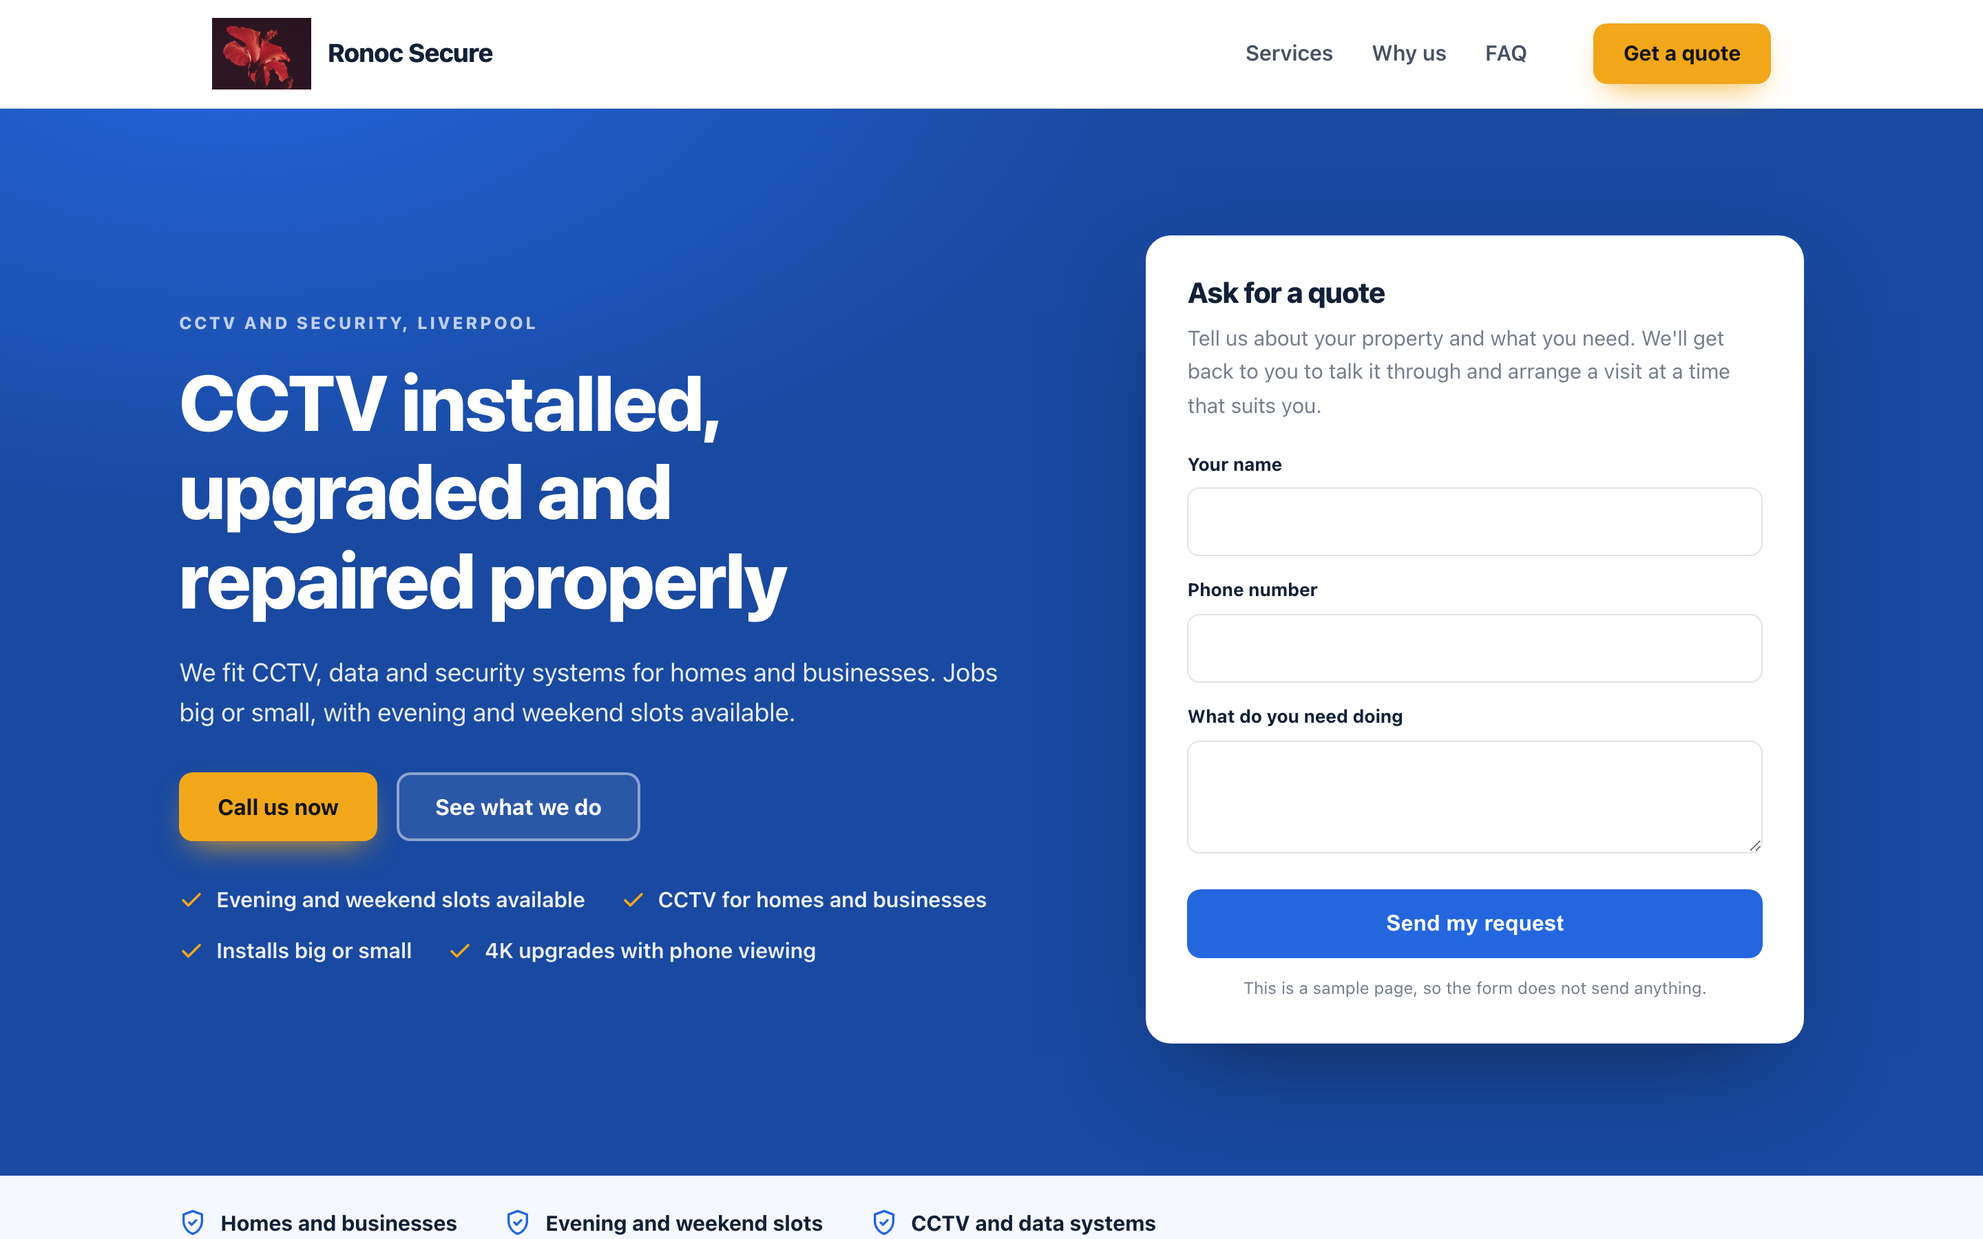
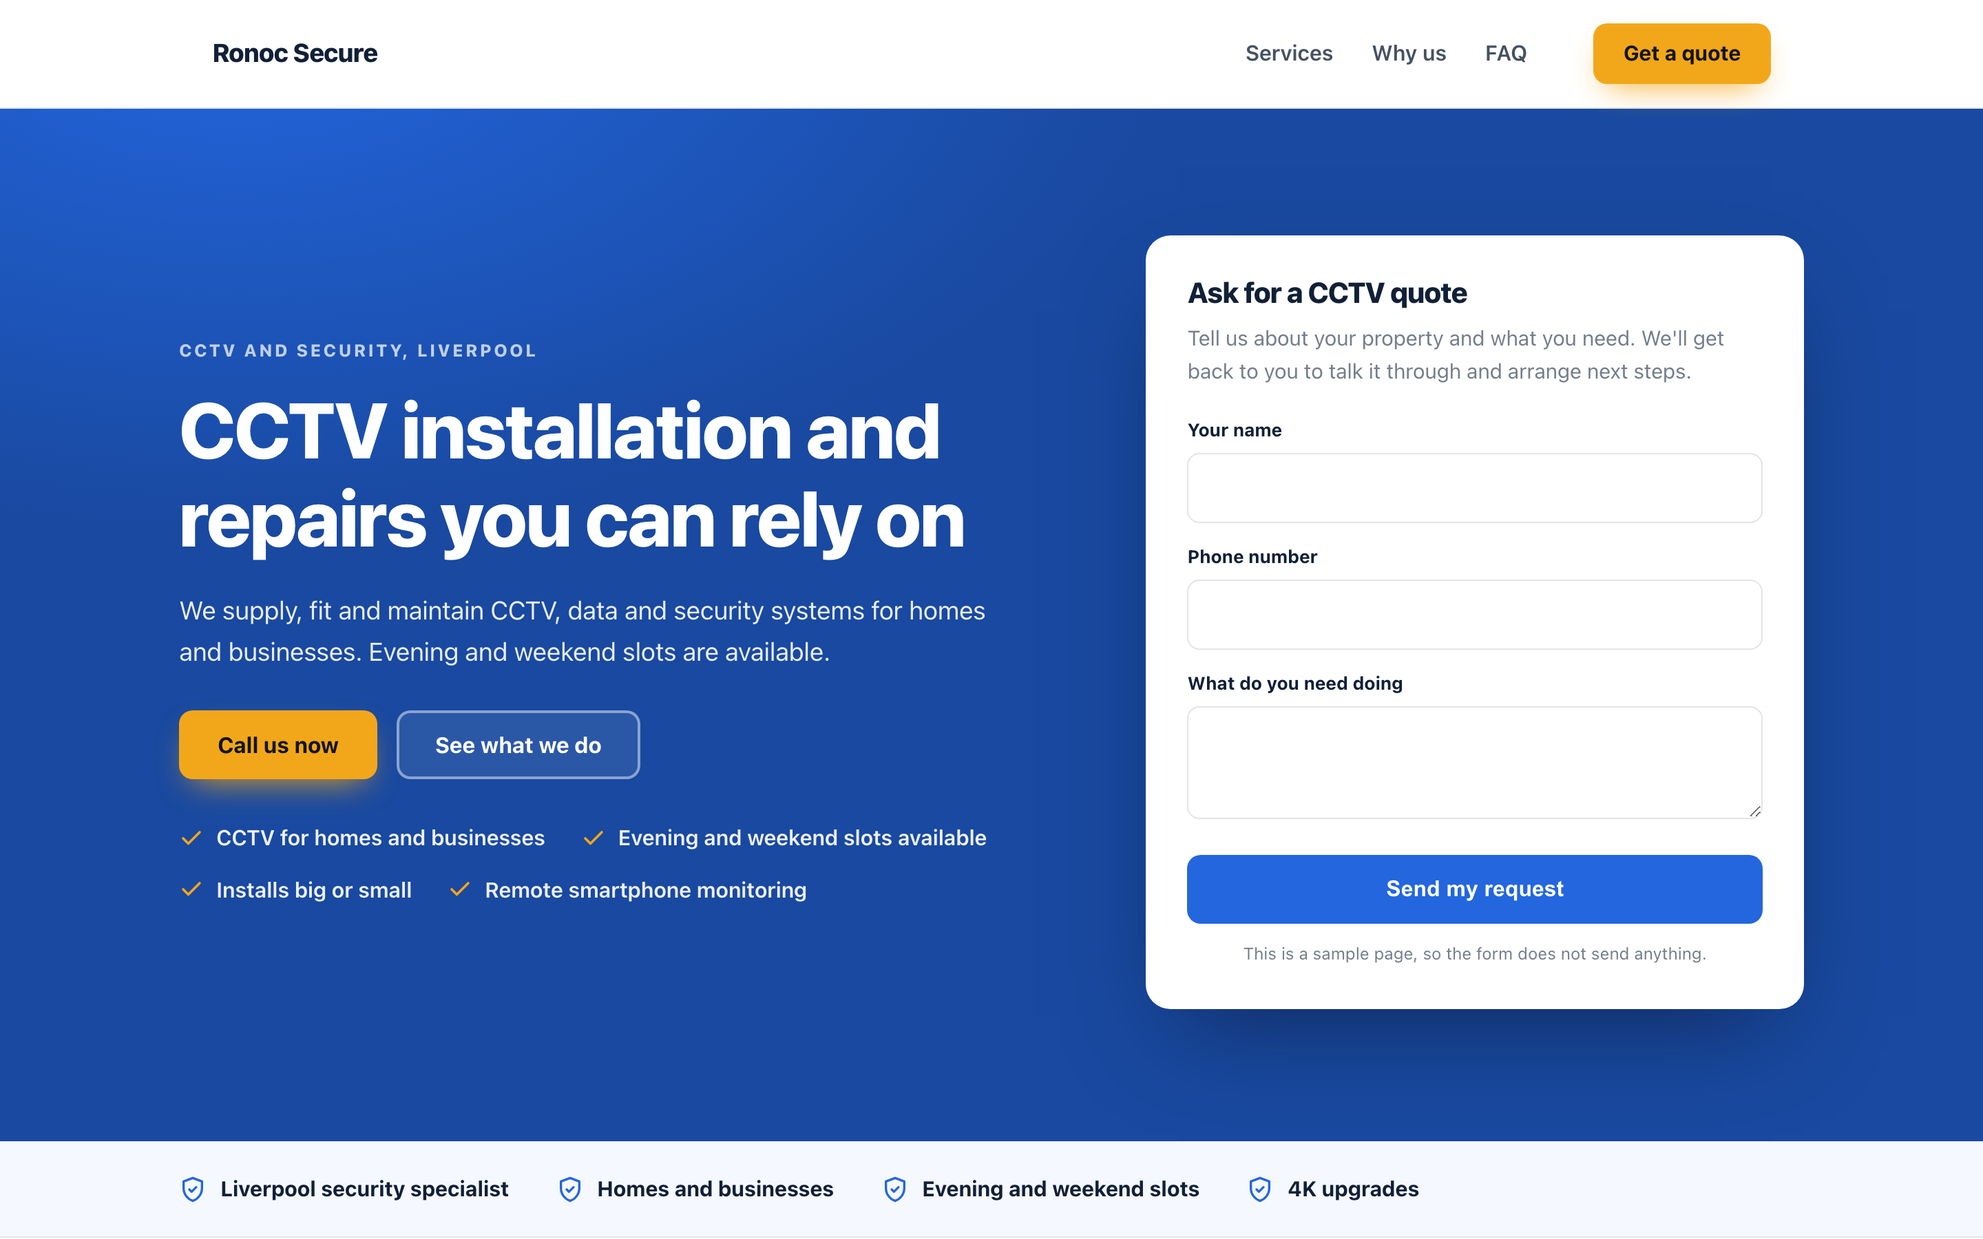
One page sample for Ronoc Secure

diff --git a/docs/7ee11d4cfe/index.html b/docs/7ee11d4cfe/index.html
@@ -4,14 +4,14 @@
 <meta charset="utf-8">
 <meta name="viewport" content="width=device-width, initial-scale=1">
 <meta name="robots" content="noindex,nofollow">
-<meta name="aso-build" content="30e84be34729">
-<title>CCTV Installation and Repairs Liverpool | Ronoc Secure</title>
-<meta name="description" content="Ronoc Secure supplies, installs, upgrades and repairs CCTV and data systems for Liverpool homes and businesses. Evening and weekend slots available.">
+<meta name="aso-build" content="61b5eebbc68b">
+<title>CCTV Installation &amp; Repairs Liverpool | Ronoc Secure</title>
+<meta name="description" content="CCTV supply, installation, upgrades and emergency repairs for homes and businesses in Liverpool. Evening and weekend slots available.">
 <link rel="canonical" href="https://markygff.github.io/aso-mockups/7ee11d4cfe/">
 <meta property="og:type" content="website">
 <meta property="og:site_name" content="Ronoc Secure">
-<meta property="og:title" content="CCTV Installation and Repairs Liverpool | Ronoc Secure">
-<meta property="og:description" content="Ronoc Secure supplies, installs, upgrades and repairs CCTV and data systems for Liverpool homes and businesses. Evening and weekend slots available.">
+<meta property="og:title" content="CCTV Installation &amp; Repairs Liverpool | Ronoc Secure">
+<meta property="og:description" content="CCTV supply, installation, upgrades and emergency repairs for homes and businesses in Liverpool. Evening and weekend slots available.">
 <meta property="og:url" content="https://markygff.github.io/aso-mockups/7ee11d4cfe/">
 <meta name="twitter:card" content="summary_large_image">
 <style>
@@ -268,7 +268,7 @@ p{margin:0}
 <header class="header">
   <div class="wrap header-in">
     <div class="brand">
-<img src="img/logo.jpg" alt="Ronoc Secure logo">      <div>
+      <div>
         <div class="brand-name">Ronoc Secure</div>
       </div>
     </div>
@@ -288,18 +288,18 @@ p{margin:0}
   <div class="wrap hero-in">
     <div>
       <p class="eyebrow">CCTV and security, Liverpool</p>
-      <h1>CCTV installed, upgraded and repaired properly</h1>
-      <p class="hero-sub">We fit CCTV, data and security systems for homes and businesses. Jobs big or small, with evening and weekend slots available.</p>
+      <h1>CCTV installation and repairs you can rely on</h1>
+      <p class="hero-sub">We supply, fit and maintain CCTV, data and security systems for homes and businesses. Evening and weekend slots are available.</p>
       <div class="hero-actions">
         <a class="btn btn-accent" href="#quote">Call us now</a>
         <a class="btn btn-ghost" href="#services">See what we do</a>
       </div>
       <ul class="hero-bullets">
-<li><svg viewBox="0 0 24 24" fill="none" stroke="currentColor" stroke-width="2.4" stroke-linecap="round" stroke-linejoin="round" aria-hidden="true"><path d="M20 6 9 17l-5-5"/></svg><span>Evening and weekend slots available</span></li><li><svg viewBox="0 0 24 24" fill="none" stroke="currentColor" stroke-width="2.4" stroke-linecap="round" stroke-linejoin="round" aria-hidden="true"><path d="M20 6 9 17l-5-5"/></svg><span>CCTV for homes and businesses</span></li><li><svg viewBox="0 0 24 24" fill="none" stroke="currentColor" stroke-width="2.4" stroke-linecap="round" stroke-linejoin="round" aria-hidden="true"><path d="M20 6 9 17l-5-5"/></svg><span>Installs big or small</span></li><li><svg viewBox="0 0 24 24" fill="none" stroke="currentColor" stroke-width="2.4" stroke-linecap="round" stroke-linejoin="round" aria-hidden="true"><path d="M20 6 9 17l-5-5"/></svg><span>4K upgrades with phone viewing</span></li>      </ul>
+<li><svg viewBox="0 0 24 24" fill="none" stroke="currentColor" stroke-width="2.4" stroke-linecap="round" stroke-linejoin="round" aria-hidden="true"><path d="M20 6 9 17l-5-5"/></svg><span>CCTV for homes and businesses</span></li><li><svg viewBox="0 0 24 24" fill="none" stroke="currentColor" stroke-width="2.4" stroke-linecap="round" stroke-linejoin="round" aria-hidden="true"><path d="M20 6 9 17l-5-5"/></svg><span>Evening and weekend slots available</span></li><li><svg viewBox="0 0 24 24" fill="none" stroke="currentColor" stroke-width="2.4" stroke-linecap="round" stroke-linejoin="round" aria-hidden="true"><path d="M20 6 9 17l-5-5"/></svg><span>Installs big or small</span></li><li><svg viewBox="0 0 24 24" fill="none" stroke="currentColor" stroke-width="2.4" stroke-linecap="round" stroke-linejoin="round" aria-hidden="true"><path d="M20 6 9 17l-5-5"/></svg><span>Remote smartphone monitoring</span></li>      </ul>
     </div>
     <div class="quote-card" id="quote">
-      <h3>Ask for a quote</h3>
-      <p class="lead">Tell us about your property and what you need. We&#39;ll get back to you to talk it through and arrange a visit at a time that suits you.</p>
+      <h3>Ask for a CCTV quote</h3>
+      <p class="lead">Tell us about your property and what you need. We&#39;ll get back to you to talk it through and arrange next steps.</p>
       <form action="#" onsubmit="return false" novalidate>
         <div class="field"><label for="h-name">Your name</label>
           <input id="h-name" name="name" type="text" autocomplete="name"></div>
@@ -316,9 +316,10 @@ p{margin:0}
 
 <div class="trust">
   <div class="wrap trust-in">
+    <div class="trust-item"><svg viewBox="0 0 24 24" fill="none" stroke="currentColor" stroke-width="2" stroke-linecap="round" stroke-linejoin="round" aria-hidden="true"><path d="M12 2 4 5v6c0 5 3.4 9.4 8 11 4.6-1.6 8-6 8-11V5z"/><path d="m9 12 2 2 4-4"/></svg><span>Liverpool security specialist</span></div>
     <div class="trust-item"><svg viewBox="0 0 24 24" fill="none" stroke="currentColor" stroke-width="2" stroke-linecap="round" stroke-linejoin="round" aria-hidden="true"><path d="M12 2 4 5v6c0 5 3.4 9.4 8 11 4.6-1.6 8-6 8-11V5z"/><path d="m9 12 2 2 4-4"/></svg><span>Homes and businesses</span></div>
     <div class="trust-item"><svg viewBox="0 0 24 24" fill="none" stroke="currentColor" stroke-width="2" stroke-linecap="round" stroke-linejoin="round" aria-hidden="true"><path d="M12 2 4 5v6c0 5 3.4 9.4 8 11 4.6-1.6 8-6 8-11V5z"/><path d="m9 12 2 2 4-4"/></svg><span>Evening and weekend slots</span></div>
-    <div class="trust-item"><svg viewBox="0 0 24 24" fill="none" stroke="currentColor" stroke-width="2" stroke-linecap="round" stroke-linejoin="round" aria-hidden="true"><path d="M12 2 4 5v6c0 5 3.4 9.4 8 11 4.6-1.6 8-6 8-11V5z"/><path d="m9 12 2 2 4-4"/></svg><span>CCTV and data systems</span></div>
+    <div class="trust-item"><svg viewBox="0 0 24 24" fill="none" stroke="currentColor" stroke-width="2" stroke-linecap="round" stroke-linejoin="round" aria-hidden="true"><path d="M12 2 4 5v6c0 5 3.4 9.4 8 11 4.6-1.6 8-6 8-11V5z"/><path d="m9 12 2 2 4-4"/></svg><span>4K upgrades</span></div>
   </div>
 </div>
 
@@ -327,28 +328,28 @@ p{margin:0}
     <div class="section-head">
       <p class="eyebrow">What we do</p>
       <h2>Our CCTV services</h2>
-      <p>We supply, fit, upgrade and repair CCTV and data systems. Every system is set up to be easy to use day to day.</p>
+      <p>We look after CCTV, data and security systems from first install to repair. Jobs big or small are welcome.</p>
     </div>
     <div class="grid grid-3">
       <article class="card">
         <div class="icon"><svg viewBox="0 0 24 24" fill="none" stroke="currentColor" stroke-width="2" stroke-linecap="round" stroke-linejoin="round" aria-hidden="true"><path d="M14.7 6.3a4 4 0 0 0 5.3 5.3l-8 8a3 3 0 0 1-4.2-4.2z"/><path d="m14.7 6.3 3-3"/></svg></div>
         <h3>CCTV Supply &amp; Installation</h3>
-        <p>Complete high-definition camera systems, planned around your home or business and what you need to keep an eye on.</p>
+        <p>We supply and fit complete high-definition camera systems, planned around your home or business and what you need to watch.</p>
       </article>
       <article class="card">
         <div class="icon"><svg viewBox="0 0 24 24" fill="none" stroke="currentColor" stroke-width="2" stroke-linecap="round" stroke-linejoin="round" aria-hidden="true"><path d="M13 2 4 14h7l-1 8 9-12h-7z"/></svg></div>
         <h3>CCTV &amp; Network Maintenance Services</h3>
-        <p>We look after your cameras and the network behind them, so recordings keep working and you can rely on the system.</p>
+        <p>We keep your cameras, recorders and network in good order. Regular checks catch faults before they leave you without footage.</p>
       </article>
       <article class="card">
         <div class="icon"><svg viewBox="0 0 24 24" fill="none" stroke="currentColor" stroke-width="2" stroke-linecap="round" stroke-linejoin="round" aria-hidden="true"><path d="M3 10.5 12 3l9 7.5"/><path d="M5 9.5V21h14V9.5"/><path d="M10 21v-6h4v6"/></svg></div>
         <h3>CCTV Upgrades &amp; System Support</h3>
-        <p>Older equipment can be brought up to 4K picture quality, with remote viewing on your smartphone.</p>
+        <p>We modernise older systems with 4K cameras and set you up to watch your cameras from your smartphone.</p>
       </article>
       <article class="card">
         <div class="icon"><svg viewBox="0 0 24 24" fill="none" stroke="currentColor" stroke-width="2" stroke-linecap="round" stroke-linejoin="round" aria-hidden="true"><path d="M4 20 15 9"/><path d="m14 4 6 6-3 3-6-6z"/><path d="m3 15 6 6"/></svg></div>
         <h3>Emergency repairs and mainenance</h3>
-        <p>Rapid response when a camera stops working, the recorder has storage problems or the system loses its connection.</p>
+        <p>Rapid response when a camera stops working, the recorder has storage issues or the system loses its connection.</p>
       </article>
     </div>
   </div>
@@ -358,35 +359,35 @@ p{margin:0}
   <div class="wrap">
     <div class="section-head">
       <p class="eyebrow">Why us</p>
-      <h2>Why customers choose Ronoc Secure</h2>
+      <h2>Why people choose Ronoc Secure</h2>
     </div>
     <div class="grid grid-2">
       <div class="why-item">
         <div class="why-badge">1</div>
         <div>
           <h3>Evening and weekend slots</h3>
-          <p>We offer evening and weekend appointments, so you don&#39;t have to take time off work for an install or repair.</p>
+          <p>We offer evening and weekend appointments, so you don&#39;t have to take time off work to get your system fitted or fixed.</p>
         </div>
       </div>
       <div class="why-item">
         <div class="why-badge">2</div>
         <div>
-          <h3>Homes and businesses</h3>
-          <p>We fit and support CCTV and data systems for families at home and for businesses of all kinds.</p>
+          <h3>Easy to use</h3>
+          <p>We fit CCTV and data systems that are simple to run day to day, so you can check your cameras without a manual.</p>
         </div>
       </div>
       <div class="why-item">
         <div class="why-badge">3</div>
         <div>
-          <h3>Easy to use</h3>
-          <p>We set systems up so they&#39;re simple to live with. You&#39;ll know how to check your cameras and find your recordings.</p>
+          <h3>Big or small</h3>
+          <p>A single camera at home or a full system for a business. We take on installs of every size.</p>
         </div>
       </div>
       <div class="why-item">
         <div class="why-badge">4</div>
         <div>
-          <h3>Big or small jobs</h3>
-          <p>One camera on the drive or a full system across a site. We take on installs of any size.</p>
+          <h3>Homes and businesses</h3>
+          <p>We keep families and businesses safe with systems built around the property and what needs watching.</p>
         </div>
       </div>
     </div>
@@ -399,27 +400,27 @@ p{margin:0}
   <div class="wrap" style="max-width:840px">
     <div class="section-head">
       <p class="eyebrow">Questions</p>
-      <h2>CCTV questions answered</h2>
+      <h2>CCTV questions we get asked</h2>
     </div>
     <div class="faq-item">
-      <h3><span>Q.</span>How quickly can you come out to fix my CCTV?</h3>
-      <p>We offer a rapid response for faulty cameras, storage issues and connection problems. Evening and weekend slots are available too. Send us the details through the quote form and we&#39;ll come back to you with the first available slot.</p>
-    </div>
-    <div class="faq-item">
-      <h3><span>Q.</span>Can you upgrade my old CCTV system?</h3>
-      <p>Yes. We modernise existing equipment with 4K resolution and remote smartphone monitoring. Tell us what you&#39;ve got now in the quote form and we&#39;ll suggest what&#39;s worth keeping and what&#39;s worth replacing.</p>
+      <h3><span>Q.</span>Can you install CCTV in the evening or at weekends?</h3>
+      <p>Yes. We offer evening and weekend slots, so we can fit or fix your system at a time that suits you.</p>
     </div>
     <div class="faq-item">
       <h3><span>Q.</span>Can I watch my CCTV cameras on my phone?</h3>
-      <p>Yes. Remote smartphone monitoring is part of our upgrades and installs, so you can check your cameras from wherever you are.</p>
+      <p>Yes. We can upgrade your existing system so you can monitor your cameras remotely from your smartphone, and we can fit 4K resolution cameras at the same time.</p>
     </div>
     <div class="faq-item">
-      <h3><span>Q.</span>Do you install CCTV for homes as well as businesses?</h3>
-      <p>Yes. We supply and install high-definition CCTV for homes and businesses. Jobs can be big or small, and each system is tailored to your property and what you need to cover.</p>
+      <h3><span>Q.</span>Can you fix CCTV that has stopped recording?</h3>
+      <p>Yes. Our emergency repairs cover faulty cameras, storage issues and connection problems. Send us the details through the form and tell us what the system is doing.</p>
     </div>
     <div class="faq-item">
-      <h3><span>Q.</span>Do you maintain the network as well as the cameras?</h3>
-      <p>Yes. We provide CCTV and network maintenance, so the cameras, the recorder and the connection between them are all looked after together.</p>
+      <h3><span>Q.</span>Can you upgrade my old CCTV system instead of replacing it?</h3>
+      <p>Often, yes. We modernise existing equipment with 4K resolution and remote smartphone monitoring. Tell us what you have now and we&#39;ll advise on the best upgrade.</p>
+    </div>
+    <div class="faq-item">
+      <h3><span>Q.</span>Do you fit CCTV for homes as well as businesses?</h3>
+      <p>Yes. We fit CCTV, data and security systems for homes and businesses, and we take on installs big or small.</p>
     </div>
   </div>
 </section>
@@ -428,8 +429,8 @@ p{margin:0}
   <div class="wrap contact-in">
     <div>
       <p class="eyebrow">Get in touch</p>
-      <h2 style="font-size:clamp(1.75rem,3.2vw,2.4rem);margin-bottom:14px">Ask for a quote</h2>
-      <p style="color:var(--muted);font-size:1.06rem">Tell us about your property and what you need. We&#39;ll get back to you to talk it through and arrange a visit at a time that suits you.</p>
+      <h2 style="font-size:clamp(1.75rem,3.2vw,2.4rem);margin-bottom:14px">Ask for a CCTV quote</h2>
+      <p style="color:var(--muted);font-size:1.06rem">Tell us about your property and what you need. We&#39;ll get back to you to talk it through and arrange next steps.</p>
       <div class="contact-facts">
       </div>
     </div>
@@ -462,7 +463,7 @@ p{margin:0}
     <div class="footer-in">
       <div>
         <div class="footer-brand">Ronoc Secure</div>
-        <p>Ronoc Secure supplies, installs, upgrades and repairs CCTV and data systems for homes and businesses in Liverpool.</p>
+        <p>CCTV, data and security systems for homes and businesses in Liverpool.</p>
       </div>
       <div>
         <h4>Services</h4>
@@ -482,7 +483,7 @@ p{margin:0}
     "@type": "GeneralContractor",
     "name": "Ronoc Secure",
     "url": "https://markygff.github.io/aso-mockups/7ee11d4cfe/",
-    "description": "Ronoc Secure supplies, installs, upgrades and repairs CCTV and data systems for Liverpool homes and businesses. Evening and weekend slots available.",
+    "description": "CCTV supply, installation, upgrades and emergency repairs for homes and businesses in Liverpool. Evening and weekend slots available.",
     "makesOffer": [
       {
         "@type": "Offer",
@@ -520,18 +521,10 @@ p{margin:0}
     "mainEntity": [
       {
         "@type": "Question",
-        "name": "How quickly can you come out to fix my CCTV?",
+        "name": "Can you install CCTV in the evening or at weekends?",
         "acceptedAnswer": {
           "@type": "Answer",
-          "text": "We offer a rapid response for faulty cameras, storage issues and connection problems. Evening and weekend slots are available too. Send us the details through the quote form and we'll come back to you with the first available slot."
-        }
-      },
-      {
-        "@type": "Question",
-        "name": "Can you upgrade my old CCTV system?",
-        "acceptedAnswer": {
-          "@type": "Answer",
-          "text": "Yes. We modernise existing equipment with 4K resolution and remote smartphone monitoring. Tell us what you've got now in the quote form and we'll suggest what's worth keeping and what's worth replacing."
+          "text": "Yes. We offer evening and weekend slots, so we can fit or fix your system at a time that suits you."
         }
       },
       {
@@ -539,23 +532,31 @@ p{margin:0}
         "name": "Can I watch my CCTV cameras on my phone?",
         "acceptedAnswer": {
           "@type": "Answer",
-          "text": "Yes. Remote smartphone monitoring is part of our upgrades and installs, so you can check your cameras from wherever you are."
+          "text": "Yes. We can upgrade your existing system so you can monitor your cameras remotely from your smartphone, and we can fit 4K resolution cameras at the same time."
         }
       },
       {
         "@type": "Question",
-        "name": "Do you install CCTV for homes as well as businesses?",
+        "name": "Can you fix CCTV that has stopped recording?",
         "acceptedAnswer": {
           "@type": "Answer",
-          "text": "Yes. We supply and install high-definition CCTV for homes and businesses. Jobs can be big or small, and each system is tailored to your property and what you need to cover."
+          "text": "Yes. Our emergency repairs cover faulty cameras, storage issues and connection problems. Send us the details through the form and tell us what the system is doing."
         }
       },
       {
         "@type": "Question",
-        "name": "Do you maintain the network as well as the cameras?",
+        "name": "Can you upgrade my old CCTV system instead of replacing it?",
         "acceptedAnswer": {
           "@type": "Answer",
-          "text": "Yes. We provide CCTV and network maintenance, so the cameras, the recorder and the connection between them are all looked after together."
+          "text": "Often, yes. We modernise existing equipment with 4K resolution and remote smartphone monitoring. Tell us what you have now and we'll advise on the best upgrade."
+        }
+      },
+      {
+        "@type": "Question",
+        "name": "Do you fit CCTV for homes as well as businesses?",
+        "acceptedAnswer": {
+          "@type": "Answer",
+          "text": "Yes. We fit CCTV, data and security systems for homes and businesses, and we take on installs big or small."
         }
       }
     ]
